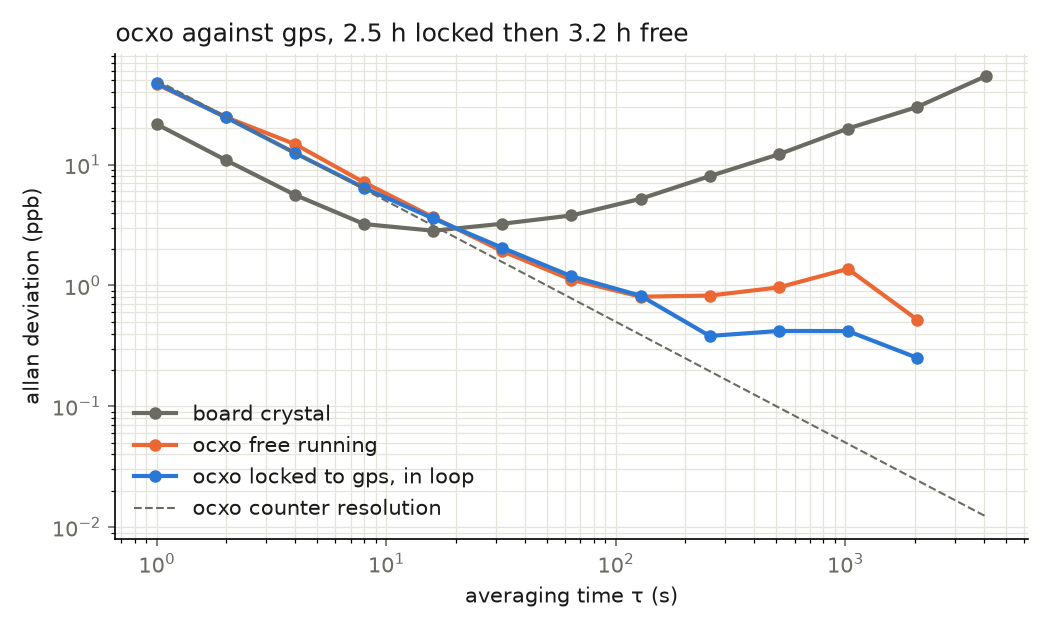
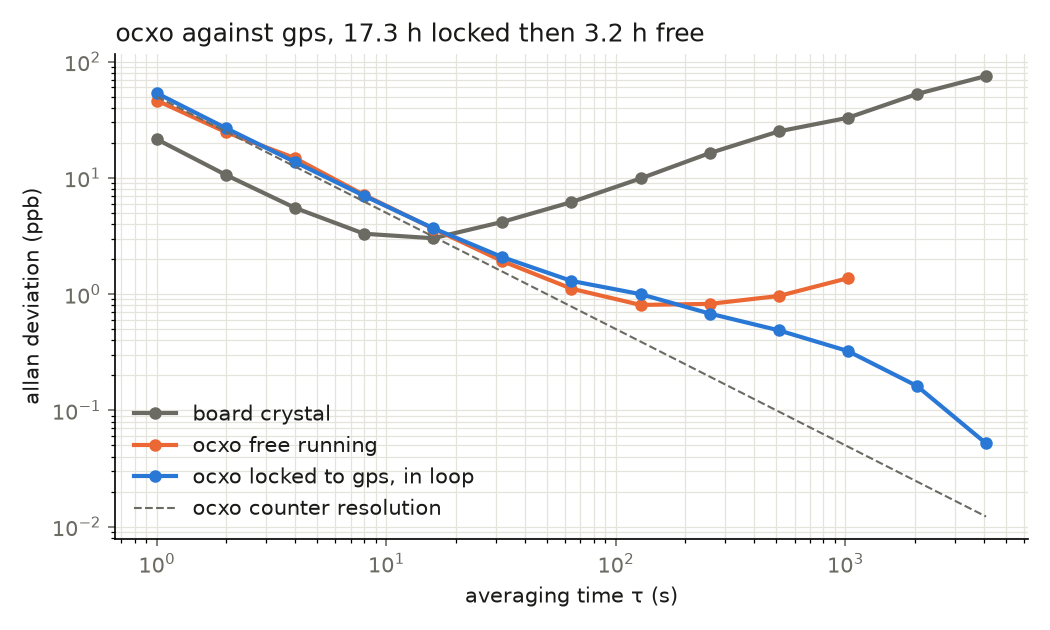
docs: 17.8 h locked run

diff --git a/gpsdo/README.md b/gpsdo/README.md
@@ -162,22 +162,25 @@ word at FIXED instead, for free running runs.
 
 ![ocxo allan deviation](../docs/img/ocxo-adev.png)
 
-One night, the loop closed for three hours and then held open at the
-locked word for three more, logged with host/gpsdo_log.py. The OCXO pulled
-in from -250 ppb within three minutes and the tuning voltage then crept
-from 1.98 to 2.00 V as the loop followed its drift.
+The loop closed for 17.8 hours, with PPS in 99.8% of seconds, logged with
+host/gpsdo_log.py, and on an earlier night held open at the locked word for
+3.2 hours. The OCXO pulls in from -250 ppb within three minutes, and over
+the long run the tuning voltage moved between 1.97 and 2.03 V as the loop
+followed its drift. The mean error after pull-in was -0.015 ppb.
 
 | τ | board crystal | OCXO free | OCXO locked |
 |---|---|---|---|
-| 1 s | 22 ppb | 46 ppb | 47 ppb |
-| 16 s | 2.8 ppb | 3.7 ppb | 3.6 ppb |
-| 256 s | 8.0 ppb | 0.82 ppb | 0.38 ppb |
-| 1024 s | 20 ppb | 1.4 ppb | 0.42 ppb |
+| 1 s | 21 ppb | 46 ppb | 54 ppb |
+| 16 s | 3.0 ppb | 3.7 ppb | 3.7 ppb |
+| 256 s | 16 ppb | 0.82 ppb | 0.68 ppb |
+| 1024 s | 33 ppb | 1.4 ppb | 0.32 ppb |
+| 4096 s | 75 ppb | | 0.052 ppb |
 
 Below about 100 s both OCXO curves sit on the counter's limit, one cycle of
 phase in a second, so the OCXO's own short-term stability is hidden there.
-Above it the free OCXO wanders and the locked one stays put. The locked
-figures are in loop, against the same GPS that steers it.
+Above it the free OCXO wanders and the locked one keeps falling. The
+locked figures are in loop, against the same GPS that steers it, and a
+point is only plotted with at least 8 blocks of its τ behind it.
 
     python3 host/ocxo_adev.py locked.log free.log --png ocxo-adev.png
 

diff --git a/docs/README.md b/docs/README.md
@@ -31,7 +31,7 @@ Nano 9K) with the open source flow.
 | Allan deviation, 1 s | 11.2 ppb with the TDC, 21.2 ppb count only | 1,899 s run |
 | Allan deviation floor | 2.65 ppb at 8 to 16 s | crystal wander above ~30 s |
 | GPS PPS jitter | 6.5 ns rms per edge | NEO-M8N sawtooth |
-| OCXO locked to GPS | 0.42 ppb at 1024 s, in loop | 2.5 h, [gpsdo](../gpsdo/README.md#measured) |
+| OCXO locked to GPS | 0.32 ppb at 1024 s, 0.052 ppb at 4096 s, in loop | 17.8 h, [gpsdo](../gpsdo/README.md#measured) |
 | OCXO free running | 1.4 ppb at 1024 s | 3.2 h, same night |
 | OCXO tuning | 0.76 ppm/V, pull-in within 3 min | CTI OSC5A2B02 |
 | frequency transfer | CC1101 carrier to ±0.21 Hz at 433.92 MHz, 300 s | [xocal](../extras/xocal/README.md) |
@@ -90,10 +90,11 @@ warms and wanders, which is what the discipline loop and an OCXO are for.
 
 ![ocxo allan deviation](img/ocxo-adev.png)
 
-A CTI OSC5A2B02 OCXO counted against the GPS PPS, three hours with the loop
-closed and three with it held open at the locked word. Locked, it holds
-0.42 ppb at 1024 s, 50 times better than the board crystal and three times
-better than the same OCXO free running. Below about 100 s both OCXO curves
+A CTI OSC5A2B02 OCXO counted against the GPS PPS, 17.8 hours with the loop
+closed and 3.2 hours on another night with it held open at the locked word.
+Locked, it holds 0.32 ppb at 1024 s and 0.052 ppb at 4096 s, a hundred
+times better than the board crystal at 1024 s and four times better than
+the same OCXO free running. Below about 100 s both OCXO curves
 are the counter's limit. Details in [gpsdo](../gpsdo/README.md#measured).
 
 ## Verification

diff --git a/README.md b/README.md
@@ -20,7 +20,7 @@ A GPS-disciplined OCXO with a picosecond time-to-digital converter on a £15 Sip
 | TDC step, median | 24.6 ps, from the adder carry chain |
 | Single-shot precision | ~31 ps rms per channel |
 | Crystal stability vs GPS | 11.2 ppb at 1 s, 2.65 ppb floor |
-| OCXO locked to GPS | 0.42 ppb at 1024 s in loop, 50× the board crystal |
+| OCXO locked to GPS | 0.32 ppb at 1024 s, 0.052 ppb at 4096 s, in loop |
 | Radio carrier | ±0.21 Hz at 433.92 MHz, no spectrum analyser |
 | Upset hardening | 130 of 200 bit flips break lock, 0 with TMR |
 | Verification | Formal proofs, 50 cocotb tests, CI on every push |
@@ -48,7 +48,7 @@ flowchart LR
     uart --> host([host: tap LUT,<br/>Allan deviation])
 ```
 
-Where both chains land in ordinary taps the spread is ~31 ps per channel; where the carry crosses a fabric column one tap is 5 ns wide. Against GPS, the TDC halves the 1 s figure and what is left is the GPS module's own pulse jitter. Locked to GPS, the OCXO holds 0.42 ppb at 1024 s, against 1.4 ppb free running and 20 ppb for the board crystal. Every number and the capture behind it is in [docs](docs/README.md).
+Where both chains land in ordinary taps the spread is ~31 ps per channel; where the carry crosses a fabric column one tap is 5 ns wide. Against GPS, the TDC halves the 1 s figure and what is left is the GPS module's own pulse jitter. Locked to GPS over 17.8 hours, the OCXO holds 0.32 ppb at 1024 s, against 1.4 ppb free running and 33 ppb for the board crystal. Every number and the capture behind it is in [docs](docs/README.md).
 
 ## Getting Started
 
